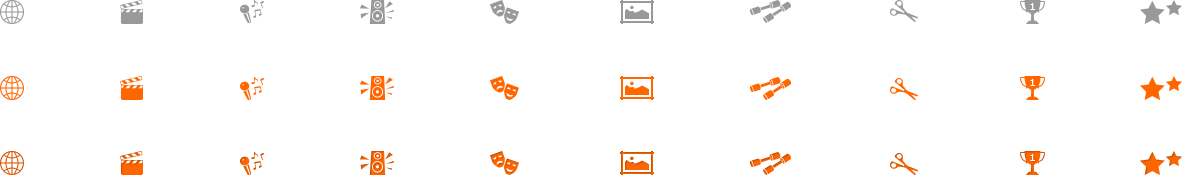
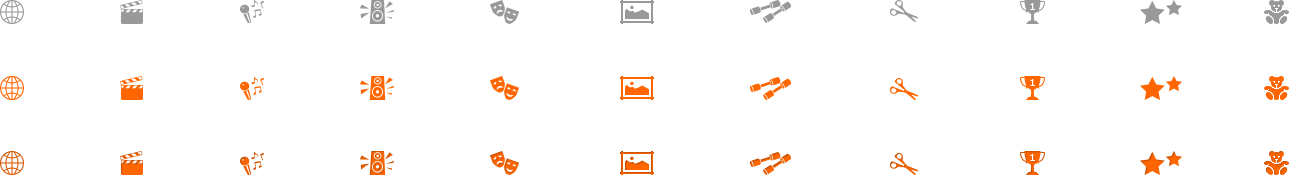
Детская афиша

diff --git a/app/assets/stylesheets/public/_afisha_filters.sass b/app/assets/stylesheets/public/_afisha_filters.sass
@@ -68,6 +68,16 @@
               &:hover
                 background-position: 20px -76px
 
+          &.children
+            a
+              background-position: -1260px 0
+              &:hover
+                background-position: -1260px -76px
+            &.selected a
+              background-position: -1260px -151px
+              &:hover
+                background-position: -1260px -76px
+
           &.movies
             a
               background-position: -117px 0

diff --git a/app/models/afisha.rb b/app/models/afisha.rb
@@ -43,7 +43,7 @@ class Afisha < ActiveRecord::Base
   has_one :affiche_schedule, :dependent => :destroy
 
   serialize :kind, Array
-  enumerize :kind, in: [:movie, :concert, :party, :spectacle, :exhibition, :sportsevent, :masterclass, :competition, :other], multiple: true, predicates: true
+  enumerize :kind, in: [:child, :movie, :concert, :party, :spectacle, :exhibition, :sportsevent, :masterclass, :competition, :other], multiple: true, predicates: true
 
   normalize_attribute :kind, with: :blank_array
 
